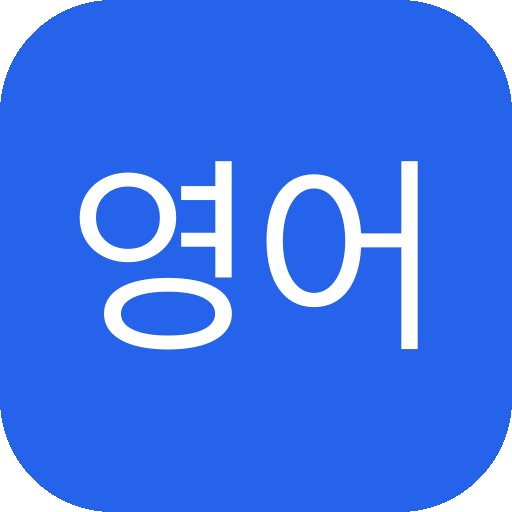
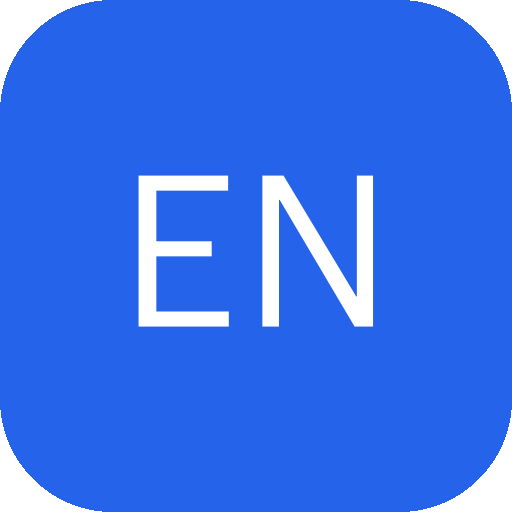
제목 변경: 주간 영어 표현 → Daily English (아이콘 EN)

Changed region(s): [[0.5, 0.3125, 0.8438, 0.6875], [0.1562, 0.3125, 0.4688, 0.6875]]

diff --git a/index.html b/index.html
@@ -4,11 +4,11 @@
 <meta charset="utf-8">
 <meta name="viewport" content="width=device-width, initial-scale=1, maximum-scale=1, user-scalable=no">
 <meta name="apple-mobile-web-app-capable" content="yes">
-<title>주간 영어 표현</title>
+<title>Daily English</title>
 <link rel="manifest" href="manifest.json">
 <meta name="theme-color" content="#2563eb">
 <link rel="apple-touch-icon" href="apple-touch-icon.png">
-<meta name="apple-mobile-web-app-title" content="영어표현">
+<meta name="apple-mobile-web-app-title" content="Daily English">
 <style>
   :root{ --bg:#f4f6f9; --card:#ffffff; --line:#e3e7ee; --txt:#1b2130; --sub:#6b7482;
          --pp:#7c3aed; --ppbg:#f2ebff; --pptx:#6d28d9;
@@ -106,7 +106,7 @@
 </head>
 <body>
 <div class="wrap">
-  <h1>&#128218; 주간 영어 표현</h1>
+  <h1>&#128218; Daily English</h1>
   <div class="banner" id="banner"></div>
   <div class="tabs">
     <button class="tab active" data-t="study">학습</button>

diff --git a/scripts/send-push.js b/scripts/send-push.js
@@ -13,7 +13,7 @@ const APP_URL = 'https://pilot-victor.github.io/weekly-words/';
   const subs = (await res.json()) || {};
   const ids = Object.keys(subs);
   const payload = JSON.stringify({
-    title: '📚 주간 영어 표현',
+    title: '📚 Daily English',
     body: '오늘의 표현 3개 학습하고 완료 체크하세요 👉',
     url: APP_URL
   });

diff --git a/sw.js b/sw.js
@@ -1,7 +1,7 @@
 self.addEventListener('install', e => self.skipWaiting());
 self.addEventListener('activate', e => e.waitUntil(self.clients.claim()));
 self.addEventListener('push', e => {
-  let d = { title: '📚 주간 영어 표현', body: '오늘의 표현 3개를 확인하세요 👉', url: './' };
+  let d = { title: '📚 Daily English', body: '오늘의 표현 3개를 확인하세요 👉', url: './' };
   try { if (e.data) d = Object.assign(d, e.data.json()); } catch (_) {}
   e.waitUntil(self.registration.showNotification(d.title, {
     body: d.body, icon: 'icon-192.png', badge: 'icon-192.png', data: { url: d.url }

diff --git a/README.md b/README.md
@@ -1,4 +1,4 @@
-# 주간 영어 표현 (Weekly English Expressions)
+# Daily English (Weekly English Expressions)
 
 구글시트 YYMMDD_ 탭에서 **보라색으로 표시된 단어/표현 298개**를 추출해 만든 주간 학습 웹앱입니다.
 